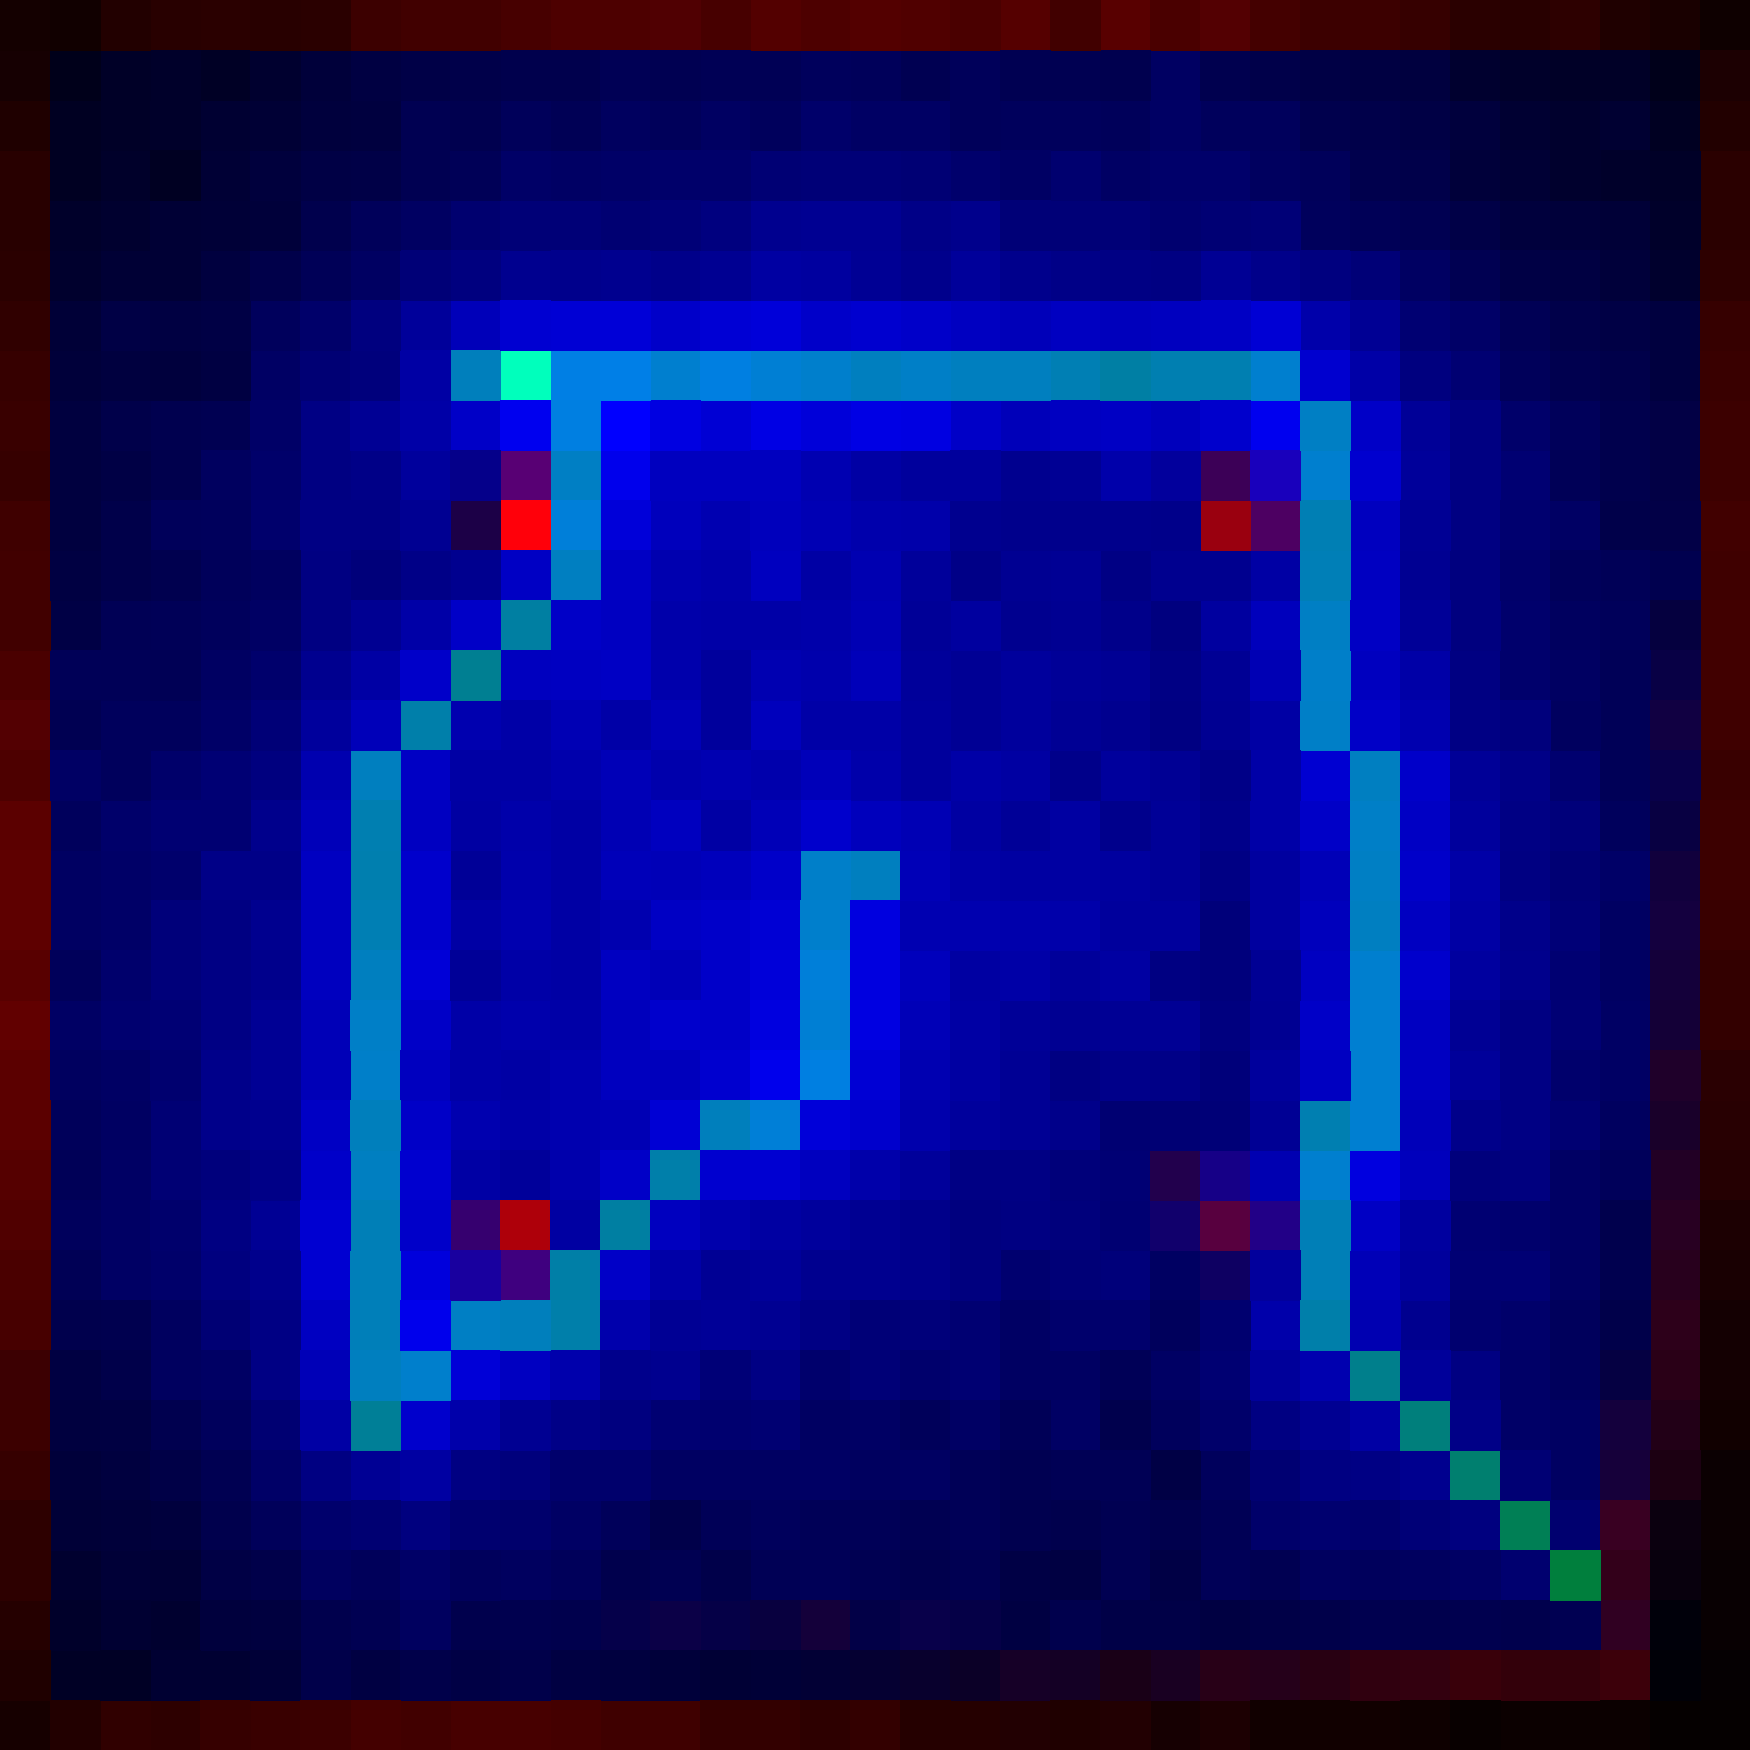
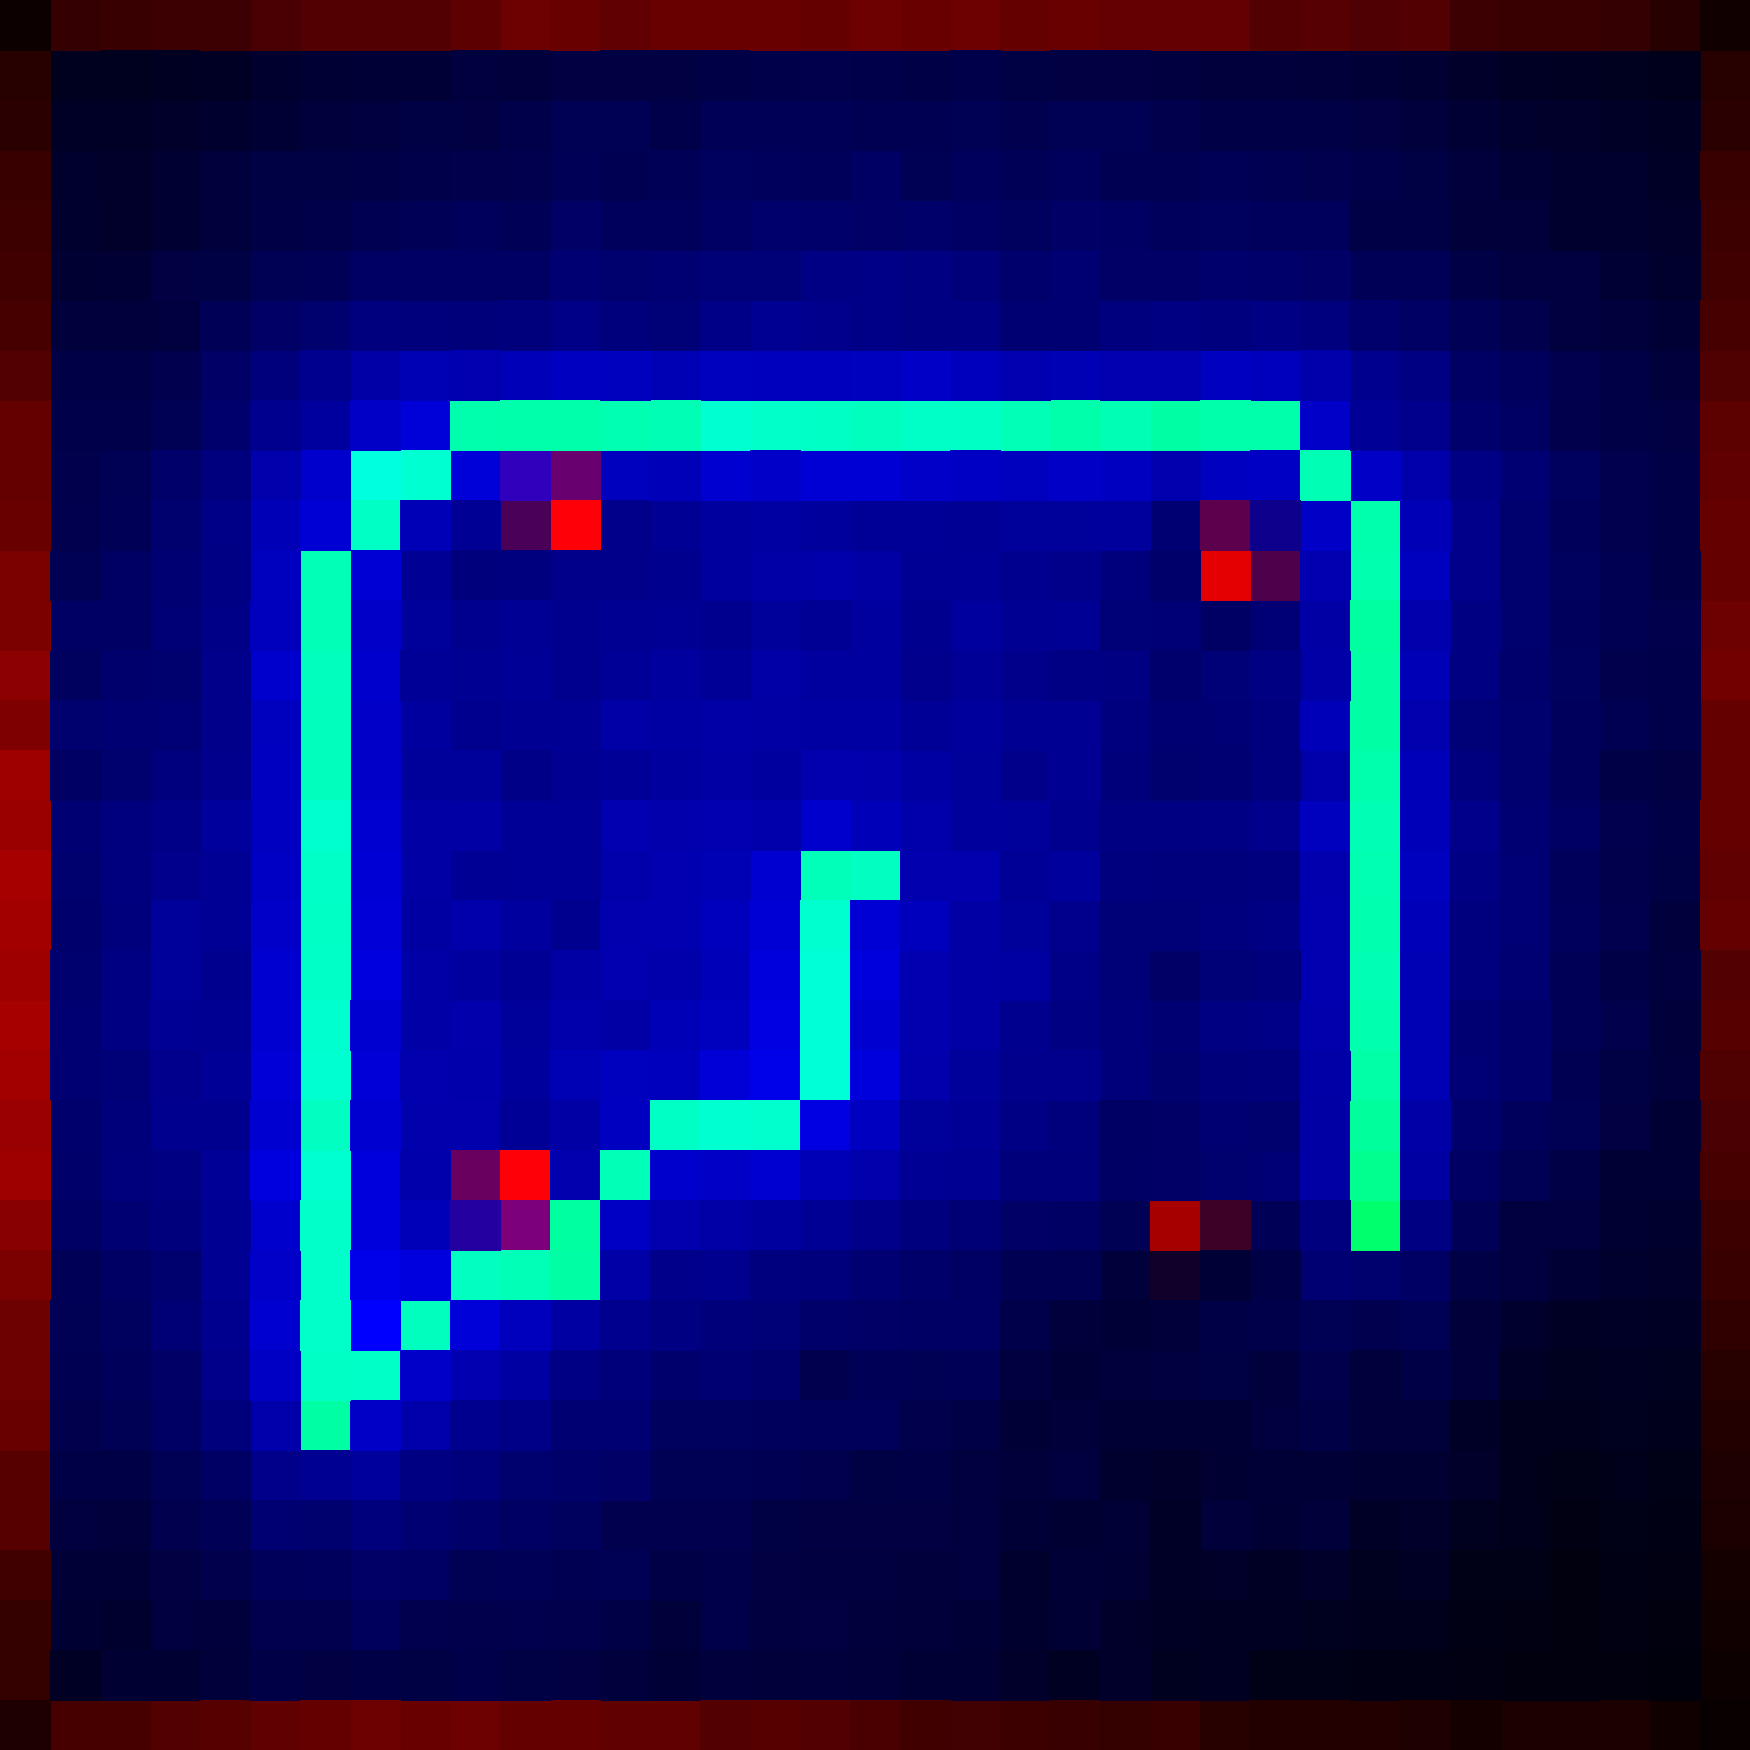
Tweak the sim geometry to be more interesting and update the readme collision map to match the new sim.

diff --git a/tk_sim.py b/tk_sim.py
@@ -124,10 +124,10 @@ if __name__ == '__main__':
 
     root = tkinter.Tk()
     W = TKWorld(root, -500, 500, -500, 500, resolution=9)
-    W.add_obs(Box(-230, -200, 200, 230))
-    W.add_obs(Box(200, 230, 200, 230))
-    W.add_obs(Box(-230, -200, -230, -200))
-    W.add_obs(Box(200, 230, -230, -200))
+    W.add_obs(Box(-200, -170, 200, 230))
+    W.add_obs(Box(200, 230, 170, 200))
+    W.add_obs(Box(-230, -200, -200, -170))
+    W.add_obs(Box(170, 200, -230, -200))
 
     bot = CircleBot(10, 0, 0, 0)
     W.add_ent(bot)
